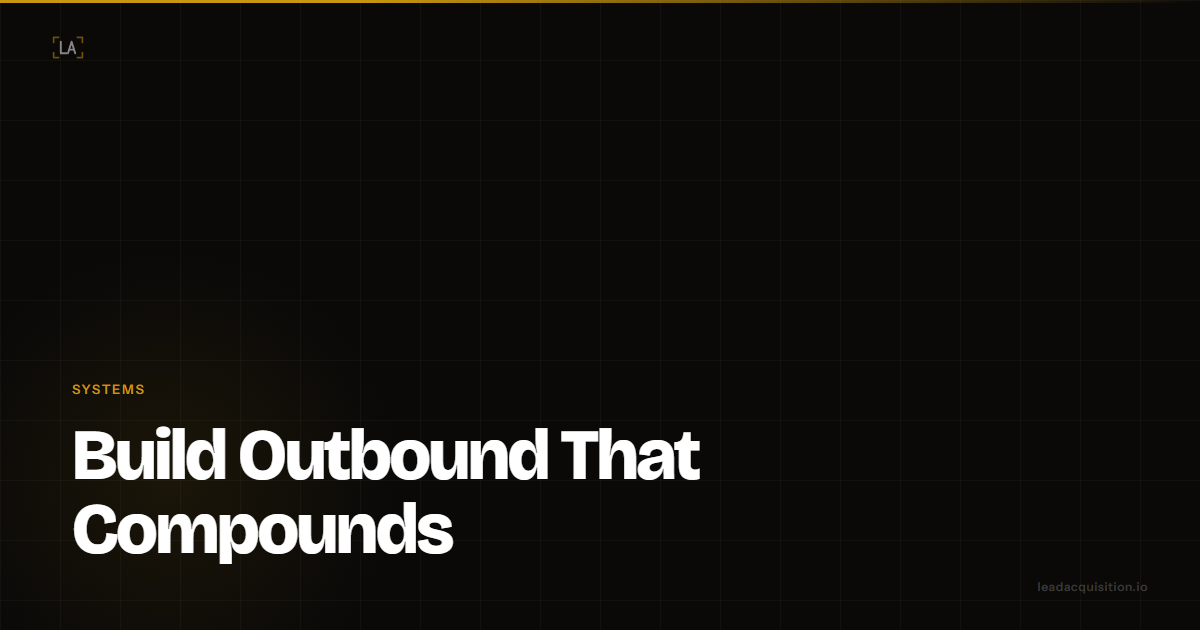
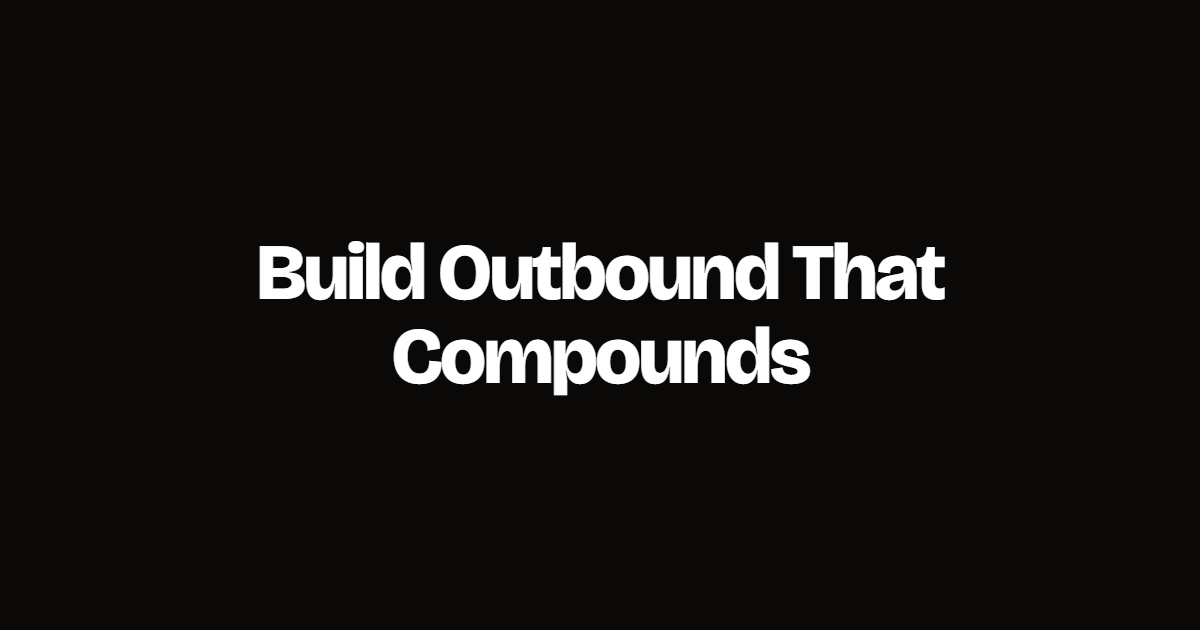
Cover images: pure black bg, white centered title only

diff --git a/generate_cover_images.py b/generate_cover_images.py
@@ -32,81 +32,28 @@ def build_html(tag, title, sub):
 <html>
 <head>
 <meta charset="UTF-8">
-<link href="https://fonts.googleapis.com/css2?family=Bricolage+Grotesque:opsz,wght@12..96,800&family=Instrument+Sans:wght@500;600&display=swap" rel="stylesheet">
+<link href="https://fonts.googleapis.com/css2?family=Bricolage+Grotesque:opsz,wght@12..96,800&display=swap" rel="stylesheet">
 <style>
   * {{ margin: 0; padding: 0; box-sizing: border-box; }}
   body {{ width: 1200px; height: 630px; background: #0A0908; overflow: hidden; }}
   .canvas {{
     width: 1200px; height: 630px; position: relative;
-    display: flex; flex-direction: column;
-    align-items: flex-start; justify-content: flex-end;
-    padding: 64px 72px;
-  }}
-  .grid {{
-    position: absolute; inset: 0;
-    background-image:
-      linear-gradient(rgba(255,255,255,0.03) 1px, transparent 1px),
-      linear-gradient(90deg, rgba(255,255,255,0.03) 1px, transparent 1px);
-    background-size: 60px 60px;
-  }}
-  .accent-top {{
-    position: absolute; top: 0; left: 0; right: 0; height: 3px;
-    background: linear-gradient(90deg, #C8970F 30%, transparent 100%);
-  }}
-  .glow {{
-    position: absolute; bottom: -100px; left: -80px;
-    width: 500px; height: 500px;
-    background: radial-gradient(circle, rgba(200,151,15,0.09) 0%, transparent 65%);
-  }}
-  .logo {{
-    position: absolute; top: 36px; left: 52px;
-    display: flex; align-items: center; gap: 10px;
-  }}
-  .logo-mark {{ opacity: 0.5; }}
-  .content {{ position: relative; z-index: 2; }}
-  .tag {{
-    font-family: 'Instrument Sans', sans-serif;
-    font-size: 13px; font-weight: 600;
-    letter-spacing: 0.14em; text-transform: uppercase;
-    color: #C8970F; margin-bottom: 22px;
+    display: flex; align-items: center; justify-content: center;
+    padding: 80px;
   }}
   .title {{
     font-family: 'Bricolage Grotesque', sans-serif;
-    font-size: 72px; font-weight: 800;
-    color: #FFFFFF; line-height: 1.02;
+    font-size: 80px; font-weight: 800;
+    color: #FFFFFF; line-height: 1.05;
     letter-spacing: -0.035em;
-    max-width: 860px;
-  }}
-  .domain {{
-    position: absolute; bottom: 36px; right: 52px;
-    font-family: 'Instrument Sans', sans-serif;
-    font-size: 12px; font-weight: 500;
-    color: rgba(255,255,255,0.2);
-    letter-spacing: 0.06em;
+    text-align: center;
+    position: relative; z-index: 2;
   }}
 </style>
 </head>
 <body>
 <div class="canvas">
-  <div class="grid"></div>
-  <div class="glow"></div>
-  <div class="accent-top"></div>
-  <div class="logo">
-    <svg class="logo-mark" width="32" height="23" viewBox="0 0 44 32" fill="none">
-      <path d="M2 9 L2 2 L9 2" stroke="#C8970F" stroke-width="2.4" stroke-linecap="round" stroke-linejoin="round"/>
-      <path d="M35 2 L42 2 L42 9" stroke="#C8970F" stroke-width="2.4" stroke-linecap="round" stroke-linejoin="round"/>
-      <path d="M2 23 L2 30 L9 30" stroke="#C8970F" stroke-width="2.4" stroke-linecap="round" stroke-linejoin="round"/>
-      <path d="M35 30 L42 30 L42 23" stroke="#C8970F" stroke-width="2.4" stroke-linecap="round" stroke-linejoin="round"/>
-      <path d="M12 8 L12 24 L20 24" stroke="#FFFFFF" stroke-width="2.7" stroke-linecap="round" stroke-linejoin="round"/>
-      <path d="M22 24 L27 8 L32 24" stroke="#FFFFFF" stroke-width="2.7" stroke-linecap="round" stroke-linejoin="round"/>
-      <line x1="23.4" y1="19" x2="30.6" y2="19" stroke="#FFFFFF" stroke-width="2.5" stroke-linecap="round"/>
-    </svg>
-  </div>
-  <div class="content">
-    <div class="tag">{tag}</div>
-    <div class="title">{title}</div>
-  </div>
-  <div class="domain">leadacquisition.io</div>
+  <div class="title">{title}</div>
 </div>
 </body>
 </html>"""
